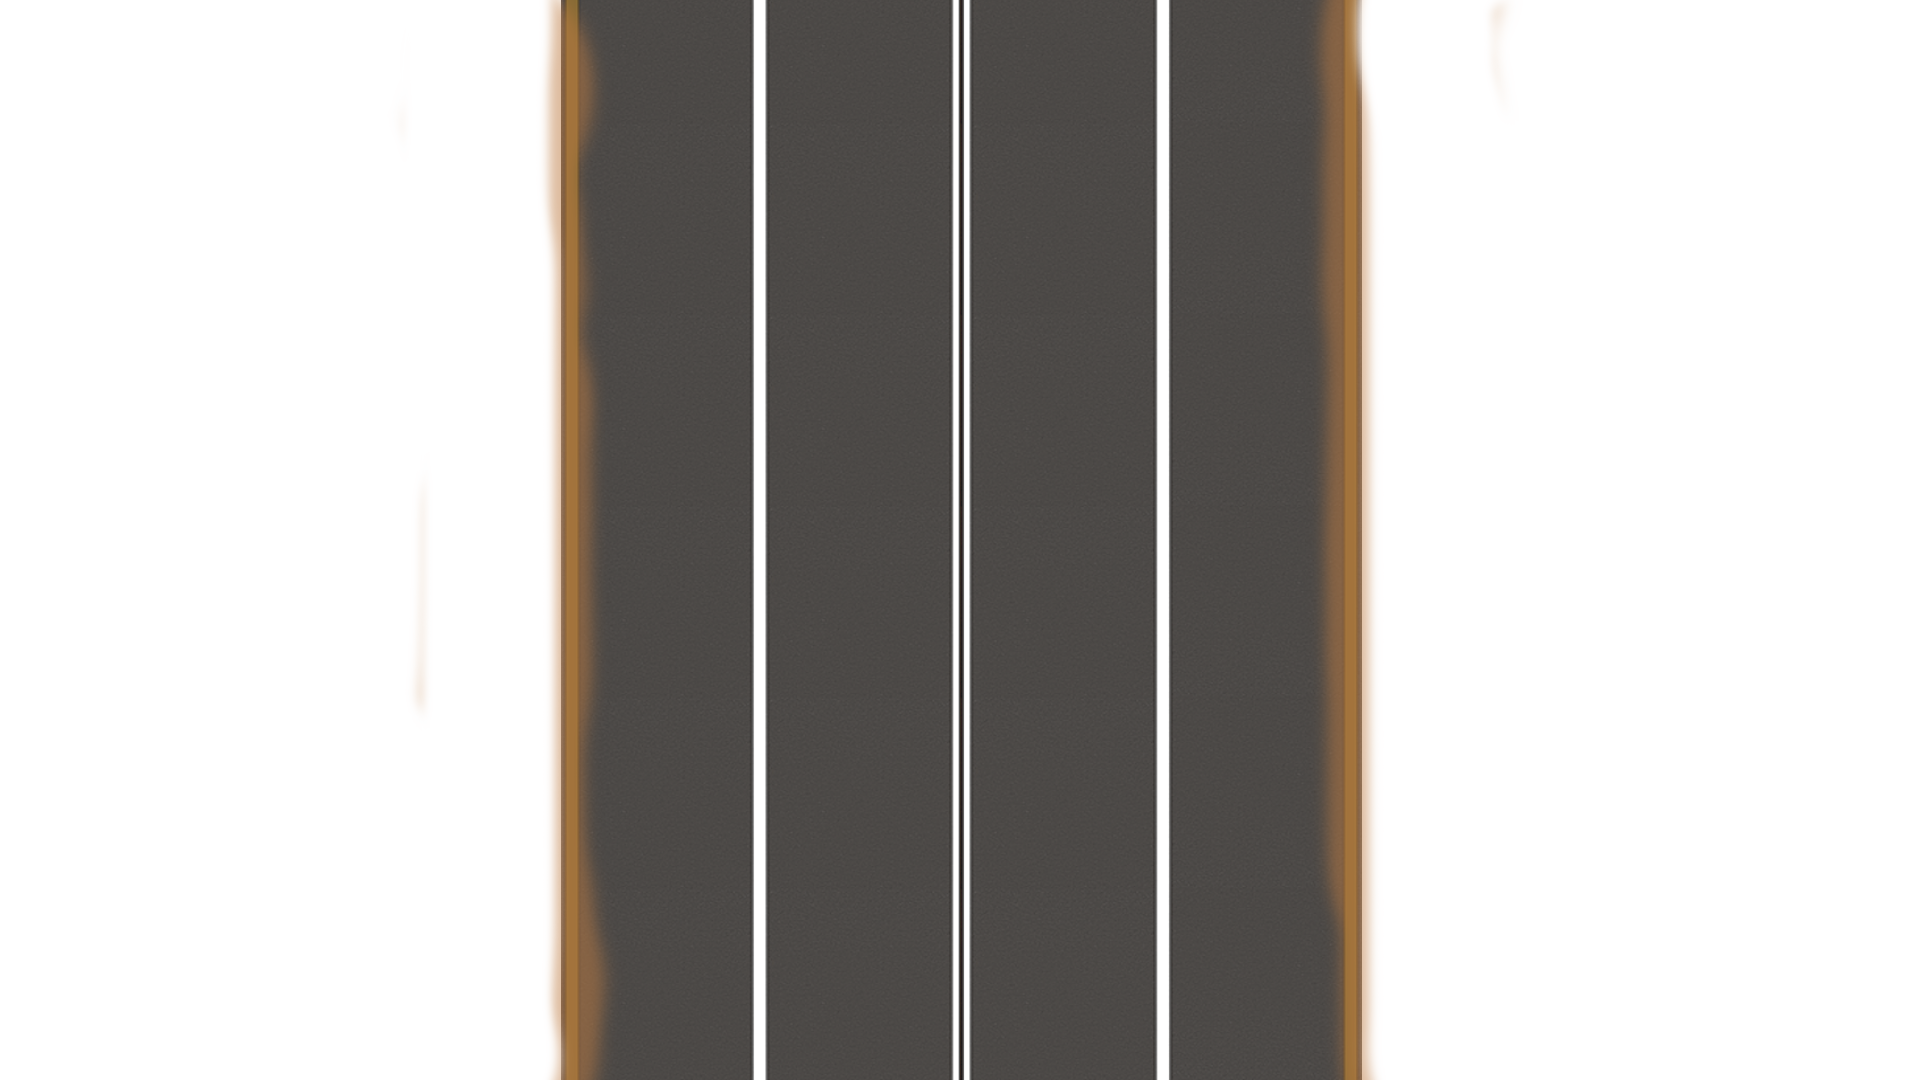
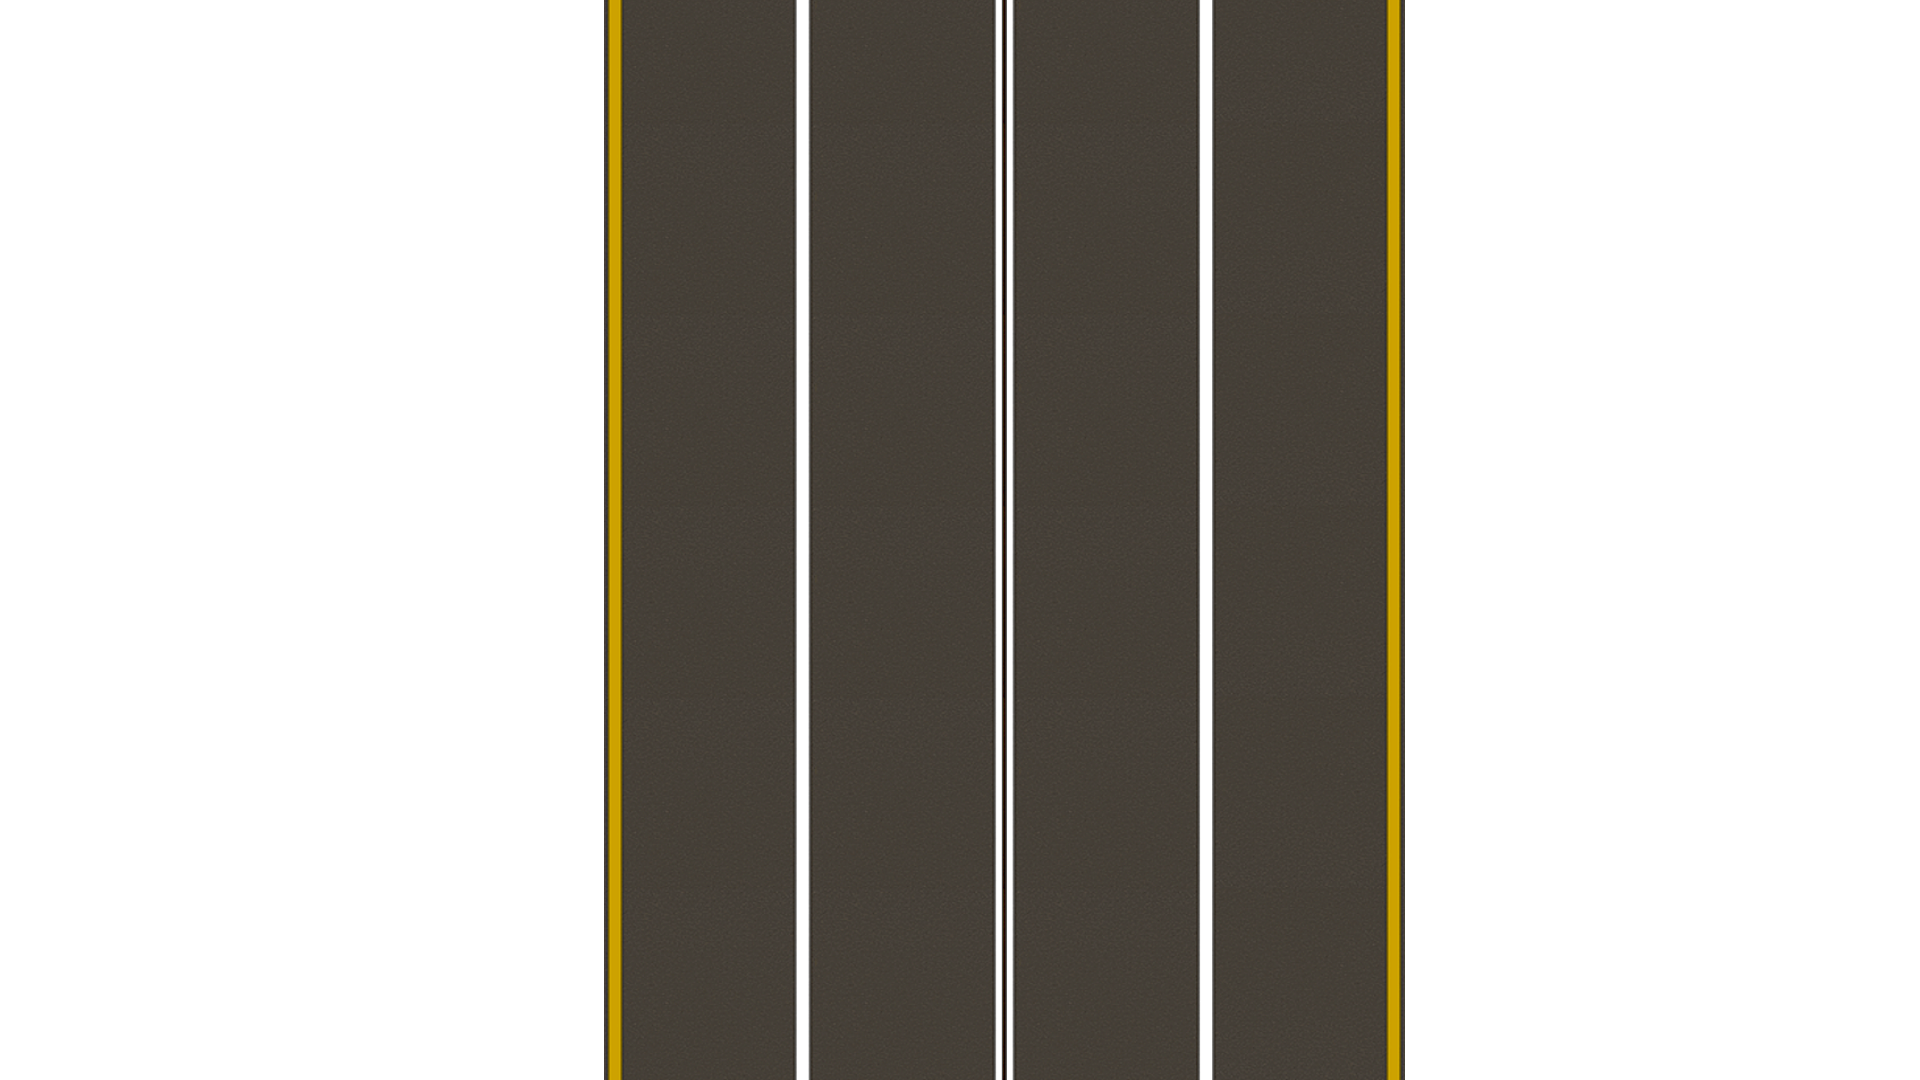
Testing Backup 29-04-2026

diff --git a/core/src/main/java/com/manogstudios/racingsimulator/FreeRideScreen.java b/core/src/main/java/com/manogstudios/racingsimulator/FreeRideScreen.java
@@ -41,6 +41,7 @@ public class FreeRideScreen implements Screen {
 
     // Road
     private Texture roadTexture;
+    private Texture surroundingsTexture;
     private static final float VIEW_WIDTH = 1920f;
     private static final float VIEW_HEIGHT = 1080f;
     private static final float SEGMENT_WIDTH = 1920f;
@@ -137,7 +138,17 @@ public class FreeRideScreen implements Screen {
         Gdx.input.setInputProcessor(uiStage);
 
         // Road texture
-        roadTexture = new Texture(Gdx.files.internal("Segment1.png"));
+        EnvironmentTheme theme = EnvironmentThemeManager.getCurrentTheme();
+
+        roadTexture = new Texture(Gdx.files.internal(theme.roadTexturePath));
+        surroundingsTexture = new Texture(Gdx.files.internal(theme.surroundingsTexturePath));
+        roadWidth = theme.roadWidth;
+
+        System.out.println("Loaded theme:");
+        System.out.println("Location = " + EnvironmentSelectionData.getSelectedLocation());
+        System.out.println("Season = " + EnvironmentSelectionData.getSelectedSeason());
+        System.out.println("Road texture = " + theme.roadTexturePath);
+        System.out.println("Surroundings texture = " + theme.surroundingsTexturePath);
 
         // Traffic car types (variety + spawn chances)
         addTrafficType("BMW 330i - 2025.png",600f, 600f, 5f);  // common sedan
@@ -307,6 +318,12 @@ public class FreeRideScreen implements Screen {
         // Draw infinite road segments relative to camera
         float baseY = (float) Math.floor(camera.position.y / SEGMENT_HEIGHT) * SEGMENT_HEIGHT;
         float roadX = roadCenterX - SEGMENT_WIDTH / 2f;
+
+
+        for (int i = -1; i <= 1; i++) {
+            float y = baseY + i * SEGMENT_HEIGHT;
+            batch.draw(surroundingsTexture, 0, y, VIEW_WIDTH, SEGMENT_HEIGHT);
+        }
 
 
         for (int i = -1; i <= 1; i++) {
@@ -643,7 +660,8 @@ public class FreeRideScreen implements Screen {
     @Override
     public void dispose() {
         batch.dispose();
-        roadTexture.dispose();
+        if (roadTexture != null) roadTexture.dispose();
+        if (surroundingsTexture != null) surroundingsTexture.dispose();
         uiStage.dispose();
         skin.dispose();
         playerCar.dispose();

diff --git a/core/src/main/java/com/manogstudios/racingsimulator/EndlessTwoWayScreen.java b/core/src/main/java/com/manogstudios/racingsimulator/EndlessTwoWayScreen.java
@@ -39,6 +39,7 @@ public class EndlessTwoWayScreen implements Screen {
 
     // Road
     private Texture roadTexture;
+    private Texture surroundingsTexture;
     private static final float VIEW_WIDTH = 1920f;
     private static final float VIEW_HEIGHT = 1080f;
     private static final float SEGMENT_WIDTH = 1920f;
@@ -197,7 +198,17 @@ public class EndlessTwoWayScreen implements Screen {
         uiStage = new Stage(new ScreenViewport());
         Gdx.input.setInputProcessor(uiStage);
 
-        roadTexture = new Texture(Gdx.files.internal("Segment1.png"));
+        EnvironmentTheme theme = EnvironmentThemeManager.getCurrentTheme();
+
+        roadTexture = new Texture(Gdx.files.internal(theme.roadTexturePath));
+        surroundingsTexture = new Texture(Gdx.files.internal(theme.surroundingsTexturePath));
+        roadWidth = theme.roadWidth;
+
+        System.out.println("Loaded theme:");
+        System.out.println("Location = " + EnvironmentSelectionData.getSelectedLocation());
+        System.out.println("Season = " + EnvironmentSelectionData.getSelectedSeason());
+        System.out.println("Road texture = " + theme.roadTexturePath);
+        System.out.println("Surroundings texture = " + theme.surroundingsTexturePath);
 
         // Traffic types
         addTrafficType("BMW 330i - 2025.png", 600f, 600f, 5f);
@@ -366,6 +377,13 @@ public class EndlessTwoWayScreen implements Screen {
 
         float baseY = (float) Math.floor(camera.position.y / SEGMENT_HEIGHT) * SEGMENT_HEIGHT;
         float roadX = roadCenterX - SEGMENT_WIDTH / 2f;
+
+
+        for (int i = -1; i <= 1; i++) {
+            float y = baseY + i * SEGMENT_HEIGHT;
+            batch.draw(surroundingsTexture, 0, y, VIEW_WIDTH, SEGMENT_HEIGHT);
+        }
+
 
         for (int i = -1; i <= 1; i++) {
             float y = baseY + i * SEGMENT_HEIGHT;
@@ -755,7 +773,8 @@ public class EndlessTwoWayScreen implements Screen {
     @Override
     public void dispose() {
         batch.dispose();
-        roadTexture.dispose();
+        if (roadTexture != null) roadTexture.dispose();
+        if (surroundingsTexture != null) surroundingsTexture.dispose();
         uiStage.dispose();
         skin.dispose();
         playerCar.dispose();

diff --git a/core/src/main/java/com/manogstudios/racingsimulator/TestDriveScreen.java b/core/src/main/java/com/manogstudios/racingsimulator/TestDriveScreen.java
@@ -40,6 +40,7 @@ public class TestDriveScreen implements Screen {
 
     // Road
     private Texture roadTexture;
+    private Texture surroundingsTexture;
     private static final float VIEW_WIDTH = 1920f;
     private static final float VIEW_HEIGHT = 1080f;
     private static final float SEGMENT_WIDTH = 1920f;
@@ -131,7 +132,17 @@ public class TestDriveScreen implements Screen {
         Gdx.input.setInputProcessor(uiStage);
 
         // Road texture
-        roadTexture = new Texture(Gdx.files.internal("Segment1.png"));
+        EnvironmentTheme theme = EnvironmentThemeManager.getCurrentTheme();
+
+        roadTexture = new Texture(Gdx.files.internal(theme.roadTexturePath));
+        surroundingsTexture = new Texture(Gdx.files.internal(theme.surroundingsTexturePath));
+        roadWidth = theme.roadWidth;
+
+        System.out.println("Loaded theme:");
+        System.out.println("Location = " + EnvironmentSelectionData.getSelectedLocation());
+        System.out.println("Season = " + EnvironmentSelectionData.getSelectedSeason());
+        System.out.println("Road texture = " + theme.roadTexturePath);
+        System.out.println("Surroundings texture = " + theme.surroundingsTexturePath);
 
         // Traffic car types
         addTrafficType("BMW 330i - 2025.png", 600f, 600f, 5f);
@@ -285,6 +296,13 @@ public class TestDriveScreen implements Screen {
 
         float baseY = (float) Math.floor(camera.position.y / SEGMENT_HEIGHT) * SEGMENT_HEIGHT;
         float roadX = roadCenterX - SEGMENT_WIDTH / 2f;
+
+
+        for (int i = -1; i <= 1; i++) {
+            float y = baseY + i * SEGMENT_HEIGHT;
+            batch.draw(surroundingsTexture, 0, y, VIEW_WIDTH, SEGMENT_HEIGHT);
+        }
+
 
         for (int i = -1; i <= 1; i++) {
             float y = baseY + i * SEGMENT_HEIGHT;
@@ -489,6 +507,7 @@ public class TestDriveScreen implements Screen {
     public void dispose() {
         if (batch != null) batch.dispose();
         if (roadTexture != null) roadTexture.dispose();
+        if (surroundingsTexture != null) surroundingsTexture.dispose();
         if (uiStage != null) uiStage.dispose();
         if (skin != null) skin.dispose();
         if (playerCar != null) playerCar.dispose();

diff --git a/core/src/main/java/com/manogstudios/racingsimulator/TimeTrialScreen.java b/core/src/main/java/com/manogstudios/racingsimulator/TimeTrialScreen.java
@@ -49,6 +49,7 @@ public class TimeTrialScreen implements Screen {
 
     // Road
     private Texture roadTexture;
+    private Texture surroundingsTexture;
     private static final float VIEW_WIDTH = 1920f;
     private static final float VIEW_HEIGHT = 1080f;
     private static final float SEGMENT_WIDTH = 1920f;
@@ -151,7 +152,17 @@ public class TimeTrialScreen implements Screen {
         Gdx.input.setInputProcessor(uiStage);
 
         // Road texture
-        roadTexture = new Texture(Gdx.files.internal("Segment1.png"));
+        EnvironmentTheme theme = EnvironmentThemeManager.getCurrentTheme();
+
+        roadTexture = new Texture(Gdx.files.internal(theme.roadTexturePath));
+        surroundingsTexture = new Texture(Gdx.files.internal(theme.surroundingsTexturePath));
+        roadWidth = theme.roadWidth;
+
+        System.out.println("Loaded theme:");
+        System.out.println("Location = " + EnvironmentSelectionData.getSelectedLocation());
+        System.out.println("Season = " + EnvironmentSelectionData.getSelectedSeason());
+        System.out.println("Road texture = " + theme.roadTexturePath);
+        System.out.println("Surroundings texture = " + theme.surroundingsTexturePath);
 
         // Traffic car types
         addTrafficType("BMW 330i - 2025.png", 600f, 600f, 5f);
@@ -303,6 +314,12 @@ public class TimeTrialScreen implements Screen {
 
         float baseY = (float) Math.floor(camera.position.y / SEGMENT_HEIGHT) * SEGMENT_HEIGHT;
         float roadX = roadCenterX - SEGMENT_WIDTH / 2f;
+
+
+        for (int i = -1; i <= 1; i++) {
+            float y = baseY + i * SEGMENT_HEIGHT;
+            batch.draw(surroundingsTexture, 0, y, VIEW_WIDTH, SEGMENT_HEIGHT);
+        }
 
         for (int i = -1; i <= 1; i++) {
             float y = baseY + i * SEGMENT_HEIGHT;
@@ -597,7 +614,8 @@ public class TimeTrialScreen implements Screen {
     @Override
     public void dispose() {
         batch.dispose();
-        roadTexture.dispose();
+        if (roadTexture != null) roadTexture.dispose();
+        if (surroundingsTexture != null) surroundingsTexture.dispose();
         uiStage.dispose();
         skin.dispose();
         playerCar.dispose();

diff --git a/lwjgl3/src/main/java/com/manogstudios/racingsimulator/Lwjgl3Launcher.java b/lwjgl3/src/main/java/com/manogstudios/racingsimulator/Lwjgl3Launcher.java
@@ -26,9 +26,9 @@ public class Lwjgl3Launcher {
         //// If you remove the above line and set Vsync to false, you can get unlimited FPS, which can be
         //// useful for testing performance, but can also be very stressful to some hardware.
         //// You may also need to configure GPU drivers to fully disable Vsync; this can cause screen tearing.
-        configuration.setWindowedMode(1920, 1080);
+        configuration.setWindowedMode(1600, 900);
         // Beta 1.2 improvements
-        configuration.setMaximized(true);
+        configuration.setMaximized(false);
         configuration.setResizable(false);
         //// You can change these files; they are in lwjgl3/src/main/resources/ .
         configuration.setWindowIcon("libgdx128.png", "libgdx64.png", "libgdx32.png", "libgdx16.png");

diff --git a/core/src/main/java/com/manogstudios/racingsimulator/PlayScreen.java b/core/src/main/java/com/manogstudios/racingsimulator/PlayScreen.java
@@ -31,7 +31,7 @@ public class PlayScreen implements Screen {
     private SpriteBatch batch;
     private Texture backgroundTexture;
     private Label versionLabel;
-    private static final String GAME_VERSION = "Beta 1.3";
+    private static final String GAME_VERSION = "Beta 1.4";
 
 
 
@@ -84,7 +84,7 @@ public class PlayScreen implements Screen {
         batch = new SpriteBatch();
         stage = new Stage(new ScreenViewport());
 
-        backgroundTexture = new Texture(Gdx.files.internal("PlayScreen0.png"));
+        backgroundTexture = new Texture(Gdx.files.internal("TitleScreen1.png")); // TitleScreen1 and TitleScreen2 are both different versions
 
         TextButton.TextButtonStyle buttonStyle = new TextButton.TextButtonStyle();
         buttonStyle.font = new BitmapFont();
